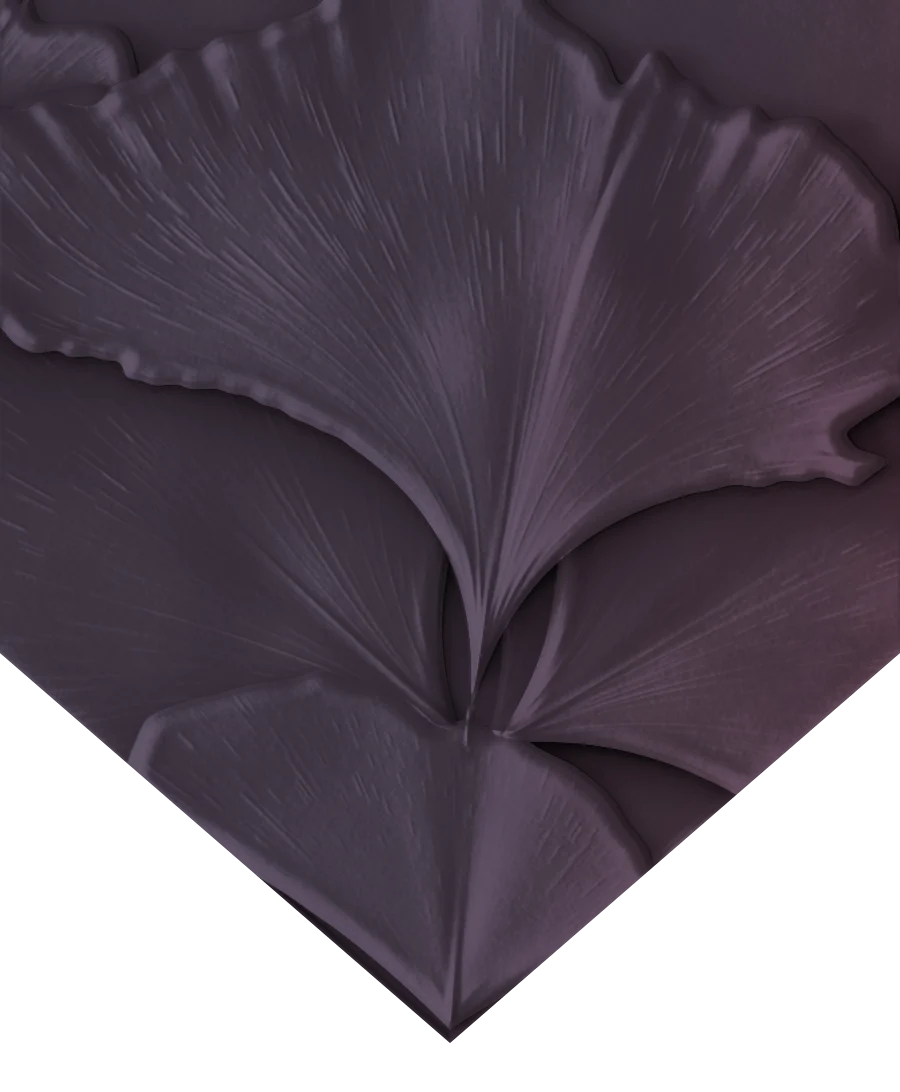
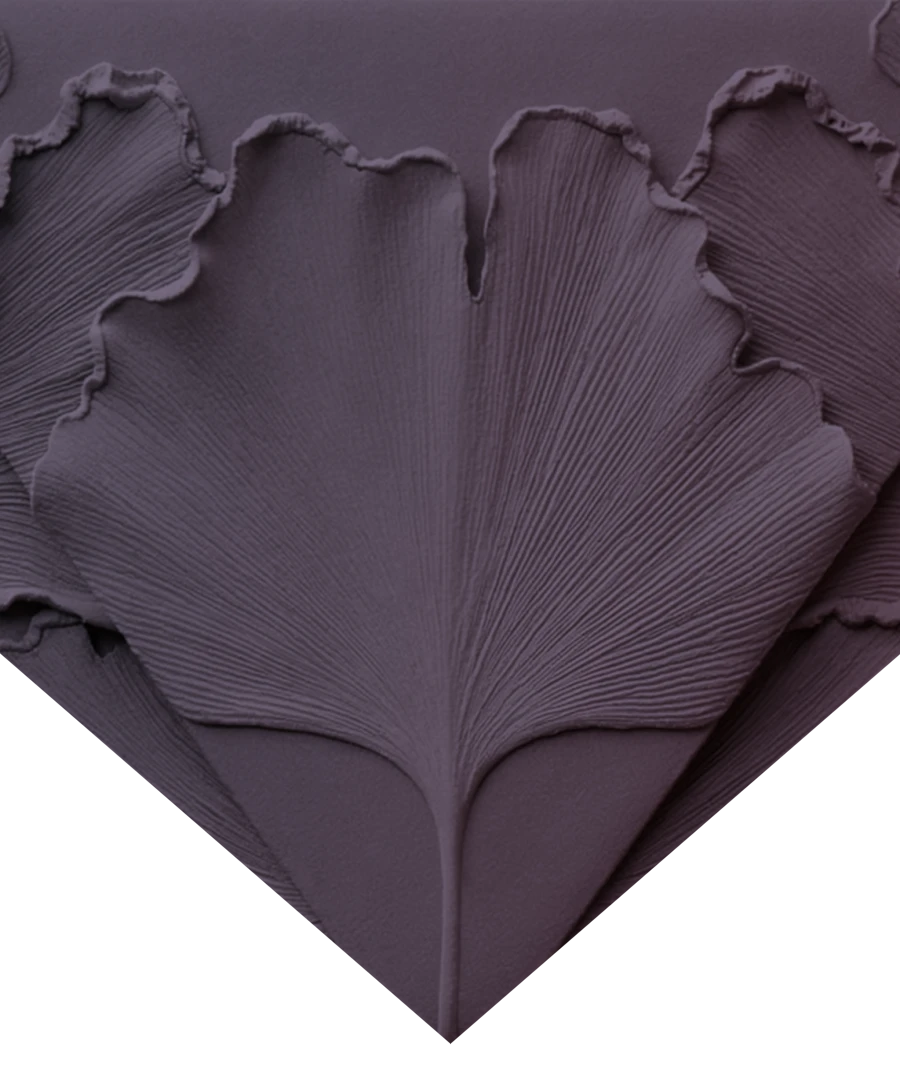
Website: envelope front now uses sculpted ginkgo artwork (generated image, cut into flap and body); tools to swap envelope art

diff --git a/Wedding Website/tools/envelope_from_image.py b/Wedding Website/tools/envelope_from_image.py
@@ -1,0 +1,62 @@
+"""Use a ready-made picture as the envelope artwork instead of the generated leaves.
+    python tools/envelope_from_image.py <picture>        (any size; it is cropped to 900:1950 from its centre)
+Writes the same files the page already uses (assets/envelope-*.webp), cut along the page's flap geometry:
+top flap edges from 33.5 % at the sides to the tip at 53.5 %, envelope mouth from 30 % to 47.8 %.
+The previous files are copied to assets/_envelope_generated/ the first time, so it can be undone.
+"""
+import sys, shutil
+from pathlib import Path
+import numpy as np, cv2
+
+HERE = Path(__file__).resolve().parent
+OUT = HERE.parent / "assets"
+W, H = 900, 1950
+FH, SH = 1092, 1152                          # flap image height, flap-shadow image height
+NAMES = ["envelope-body.webp", "envelope-flap.webp", "envelope-flap-dim.webp", "envelope-flap-back.webp", "envelope-flap-shadow.webp"]
+
+def smooth01(x):
+    x = np.clip(x, 0, 1); return x * x * (3 - 2 * x)
+
+def save(name, bgr, alpha, q=90):
+    bgra = np.dstack([np.clip(bgr, 0, 255).astype(np.uint8), (np.clip(alpha, 0, 1) * 255).astype(np.uint8)])
+    cv2.imwrite(str(OUT / name), bgra, [cv2.IMWRITE_WEBP_QUALITY, q]); print("wrote", name, bgra.shape[1], "x", bgra.shape[0])
+
+def main(src):
+    bak = OUT / "_envelope_generated"
+    if not bak.exists():
+        bak.mkdir()
+        for n in NAMES: shutil.copy(OUT / n, bak / n)
+    im = cv2.imread(src)
+    h, w = im.shape[:2]
+    if w / h > W / H:                         # too wide: crop the sides
+        nw = int(round(h * W / H)); x0 = (w - nw) // 2; im = im[:, x0:x0 + nw]
+    else:                                     # too tall: crop top and bottom
+        nh = int(round(w * H / W)); y0 = (h - nh) // 2; im = im[y0:y0 + nh]
+    art = cv2.resize(im, (W, H), interpolation=cv2.INTER_AREA).astype(np.float32)
+    # gentle grade toward the site's dusty mauve (target mean about R152 G140 B152), keeping the picture's own light and shade
+    mean = art.reshape(-1, 3).mean(0); target = np.array([152, 140, 152], np.float32)      # BGR order happens to be symmetric here
+    art = np.clip(art * (1 + 0.8 * (target / mean - 1)), 0, 255)
+    yy, xx = np.mgrid[0:H, 0:W].astype(np.float32)
+    t = 1 - np.abs(xx - W / 2) / (W / 2)                       # 0 at the sides, 1 at the centre
+    flap_edge = H * (0.335 + (0.535 - 0.335) * t)              # lower edge of the top flap
+    mouth_edge = H * (0.30 + (0.478 - 0.30) * t)               # opening of the envelope under it
+    # ---- top flap (its own sheet) ----
+    fa = smooth01((flap_edge - yy) / 2.0 + 0.5)[:FH]
+    near = np.clip((flap_edge - yy) / 7.0, 0, 1)[:FH]          # a thin lit paper edge along the cut
+    flap = art[:FH] * (1 + 0.10 * (1 - near))[..., None]
+    save("envelope-flap.webp", flap, fa)
+    save("envelope-flap-dim.webp", flap * np.array([0.50, 0.44, 0.50], np.float32), fa)
+    back = cv2.GaussianBlur(art[:FH], (0, 0), 28) * 0.93
+    save("envelope-flap-back.webp", back, fa)
+    # ---- soft shadow the closed flap casts on the envelope ----
+    d = (yy - flap_edge)[:SH]
+    sh = np.exp(-np.clip(d, 0, None) / 16.0) * (d > -2) * 0.42
+    save("envelope-flap-shadow.webp", np.zeros((SH, W, 3), np.float32) + np.array([40, 26, 40], np.float32), sh)
+    # ---- body: everything below the mouth ----
+    ba = smooth01((yy - mouth_edge) / 2.0 + 0.5)
+    hem = np.clip((yy - mouth_edge) / 9.0, 0, 1)
+    body = art * (1 - 0.10 * (1 - hem))[..., None]
+    save("envelope-body.webp", body, ba)
+
+if __name__ == "__main__":
+    main(sys.argv[1])

diff --git a/Wedding Website/tools/canva_fetch.py b/Wedding Website/tools/canva_fetch.py
@@ -1,0 +1,58 @@
+"""Open Canva images in a real browser window and save them at full size.
+    python tools/canva_fetch.py <outdir> <mediaId> [<mediaId> ...]
+A Chromium window opens. The first time, log in to Canva in that window yourself (the login is kept in a
+private profile folder on this PC, outside the project, so it is never uploaded anywhere). The script then
+opens each image's page and saves the largest picture the page loads, plus a screenshot of the page.
+"""
+import sys, time
+from pathlib import Path
+from playwright.sync_api import sync_playwright
+
+OUT = Path(sys.argv[1]); OUT.mkdir(parents=True, exist_ok=True)
+IDS = sys.argv[2:]
+PROFILE = Path.home() / "AppData" / "Local" / "canva-viewer-profile"      # not inside the git repo
+LOGIN_WAIT_S = 420
+
+def logged_out(url):
+    u = url.lower()
+    return any(k in u for k in ("/login", "/signup", "accounts.google", "/sso", "oauth"))
+
+with sync_playwright() as p:
+    ctx = p.chromium.launch_persistent_context(str(PROFILE), headless=False, viewport={"width": 1280, "height": 900},
+                                               args=["--disable-blink-features=AutomationControlled"])
+    pg = ctx.pages[0] if ctx.pages else ctx.new_page()
+    best = {}
+    cur = {"id": None}
+    def on_resp(r):
+        try:
+            ct = r.headers.get("content-type", "")
+            if not ct.startswith("image/") or cur["id"] is None: return
+            body = r.body()
+            if len(body) > len(best.get(cur["id"], (b"", ""))[0]): best[cur["id"]] = (body, ct)
+        except Exception:
+            pass
+    pg.on("response", on_resp)
+    for n, mid in enumerate(IDS):
+        cur["id"] = mid
+        pg.goto(f"https://www.canva.com/M/{mid}", wait_until="domcontentloaded", timeout=90000)
+        pg.wait_for_timeout(4000)
+        t0 = time.time()
+        if logged_out(pg.url):
+            print("WAITING FOR LOGIN in the browser window ...", flush=True)
+            while logged_out(pg.url) and time.time() - t0 < LOGIN_WAIT_S:
+                pg.wait_for_timeout(2000)
+            if logged_out(pg.url):
+                print("NOT LOGGED IN after waiting; stopping.", flush=True); break
+            print("logged in", flush=True)
+            pg.goto(f"https://www.canva.com/M/{mid}", wait_until="domcontentloaded", timeout=90000)
+        pg.wait_for_timeout(9000)
+        pg.screenshot(path=str(OUT / f"{mid}_page.png"))
+        if mid in best:
+            body, ct = best[mid]
+            ext = {"image/png": "png", "image/webp": "webp", "image/jpeg": "jpg", "image/avif": "avif"}.get(ct.split(";")[0], "img")
+            (OUT / f"{mid}.{ext}").write_bytes(body)
+            print(f"{mid}: saved {len(body)} bytes ({ct}); page {pg.url[:80]}", flush=True)
+        else:
+            print(f"{mid}: no image captured; page {pg.url[:80]}", flush=True)
+    ctx.close()
+print("DONE", flush=True)
